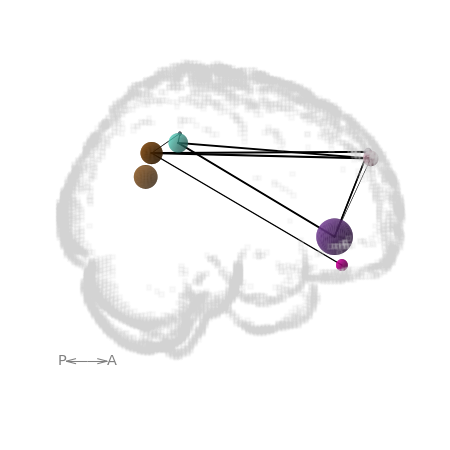
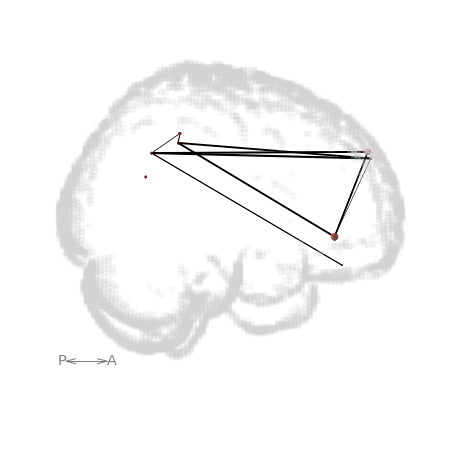
node spheres and circles update size and scaling inputs

Changed region(s): [[0.6844, 0.4667, 0.8089, 0.6222], [0.28, 0.28, 0.4356, 0.4356], [0.8089, 0.3422, 0.84, 0.3733]]

diff --git a/netonbrain/plotting/plot_spheres.py b/netonbrain/plotting/plot_spheres.py
@@ -4,7 +4,7 @@ import pandas as pd
 import random
 
 
-def _plot_spheres(ax, nodes):
+def _plot_spheres(ax, nodes, nodecolor='salmon', nodesize=20, nodescale=1, nodecols=['x', 'y', 'z'], alpha=None):
     """
     Function that plots spheres in figure
 
@@ -13,8 +13,14 @@ def _plot_spheres(ax, nodes):
     ax : matplotlib ax
     nodes : dataframe
         node dataframe with x, y, z coordinates.
+    nodesize : string or float, int
+        if string, must refer to a column in nodes.
+    nodescale : int
+        factor to scale all nodes by
     nodecolor : string or matplotlib color
         if non-color string, must refer to a column in nodes
+    nodecols : list of string
+        name of node column coordinates in datadrame
 
     Returns
     -------------
@@ -22,30 +28,26 @@ def _plot_spheres(ax, nodes):
 
     """
 
-    if 'centrality' in nodes.keys():
-        ss = 'centrality'
+    # Loop through each node and plot a surface plot
+    for _, row in nodes.iterrows():
+        # Get the xyz coords for the node
+        c = [row[nodecols[0]],
+            row[nodecols[1]],
+            row[nodecols[2]]]
 
-        for _, row in nodes.iterrows():
-            c = [row['x'], row['y'], row['z']]
+        # Check if nodesize is in the dataframe
+        if nodesize in nodes.keys():
+            r = row[nodesize] * nodescale 
+        else: 
+            r = nodesize * nodescale
 
-            r = row[ss]/10
+        u, v = np.mgrid[0:2*np.pi:50j, 0:np.pi:50j]
 
-            u, v = np.mgrid[0:2*np.pi:50j, 0:np.pi:50j]
+        # Calculate the x,y,z coordinates of each sphere
+        x = r*np.cos(u)*np.sin(v)
+        y = r*np.sin(u)*np.sin(v)
+        z = r*np.cos(v)
 
-            x = r*np.cos(u)*np.sin(v)
-            y = r*np.sin(u)*np.sin(v)
-            z = r*np.cos(v)
-
-            random.seed(row[ss])
-
-            red = random.random()
-            g = random.random()
-            b = random.random()
-
-            node_color = [red, g, b]
-
-            ax.plot_surface(c[0]+x, c[1]+y, c[2]+z,
-                            color=node_color, 
-                            alpha=0.5*np.random.random()+0.5)
-    else:
-        r = 2
+        ax.plot_surface(c[0]+x, c[1]+y, c[2]+z,
+                        color=nodecolor, 
+                        alpha=alpha)

diff --git a/netonbrain/plot.py b/netonbrain/plot.py
@@ -7,7 +7,8 @@ from .plotting import _plot_template, _plot_template_style_filled, _plot_templat
 
 def plot(nodes, fig=None, ax=None, view='L', frames=1, edges=None, template=None, templatestyle='filled', templatealpha=0.2,
          templatevoxsize=2, templatecolor='lightgray', surface_resolution=2, templateedgethreshold=0.7, arrowaxis='auto', arrowlength=10,
-         arroworigin=None, edgecolor='k', edgewidth='auto', nodesize=50, nodecolor='salmon', nodespheres=True):
+         arroworigin=None, edgecolor='k', edgewidth='auto', nodesize=1, nodescale=5, nodecolor='salmon', nodespheres=True,
+         weightcol='weights', nodecols=['x', 'y', 'z']):
     # sourcery skip: merge-nested-ifs
     """
     Plot a network on a brain
@@ -99,9 +100,9 @@ def plot(nodes, fig=None, ax=None, view='L', frames=1, edges=None, template=None
                         edgecolor=edgecolor)
         if nodes is not None:
             if nodespheres:
-                _plot_spheres(ax, nodes)
+                _plot_spheres(ax, nodes, nodecolor=nodecolor, nodesize=nodesize, nodecols=nodecols, nodescale=nodescale)
             else:
-                _plot_nodes(ax, nodes)
+                _plot_nodes(ax, nodes, nodecolor=nodecolor, nodesize=nodesize, nodecols=nodecols)
         if arrowaxis is not None:
             _add_axis_arrows(ax, dims=arrowaxis,
                              length=arrowlength, origin=arroworigin,

diff --git a/netonbrain/plotting/plot_nodes.py b/netonbrain/plotting/plot_nodes.py
@@ -1,4 +1,4 @@
-def _plot_nodes(ax, nodes, nodesize=50, nodecolor='salmon'):
+def _plot_nodes(ax, nodes, nodesize=20, nodecolor='salmon', nodecols=['x', 'y', 'z']):
     """
     Function that plots nodes in figure
 
@@ -6,11 +6,14 @@ def _plot_nodes(ax, nodes, nodesize=50, nodecolor='salmon'):
     ---------------
     ax : matplotlib ax
     nodes : dataframe
-        node dataframe with x, y, z coordinates. 
+        node dataframe with x, y, z coordinates, must include nodecols. 
     nodesize : string or float, int
         if string, must refer to a column in nodes.
     nodecolor : string or matplotlib color
         if non-color string, must refer to a column in nodes
+    nodecols : list of string
+        name of node column coordinates in datadrame
+
 
     Returns
     -------------
@@ -24,7 +27,7 @@ def _plot_nodes(ax, nodes, nodesize=50, nodecolor='salmon'):
         ns = nodesize
     # Set colormap
     nc = nodecolor
-    ax.scatter(nodes['x'], nodes['y'], nodes['z'], s=ns, color=nc)
+    ax.scatter(nodes[nodecols[0]], nodes[nodecols[1]], nodes[nodecols[2]], s=ns, color=nc)
 
 def _scale_nodes(nodes, affine=None):
     """

diff --git a/examples/example1.py b/examples/example1.py
@@ -11,7 +11,7 @@ nodex = np.array([42, -42, -40, 40, 12, -12, -18, 18])
 nodey = np.array([-60, -60, 40, 40, 56, 56, -44, -44])
 nodez = np.array([30, 30, -16, -16, 35, 35, 44, 44])
 # Some psuedo_centrality measure to demonstrate size
-centrality = np.array([30, 30, 50, 15, 20, 10, 5, 25])
+centrality = np.array([0.3, 0.3, 1, 0.15, 0.2, 0.8, 0.4, 0.3])
 nodes = pd.DataFrame(data={'x': nodex, 'y': nodey,
                            'z': nodez, 'centrality': centrality})
 
